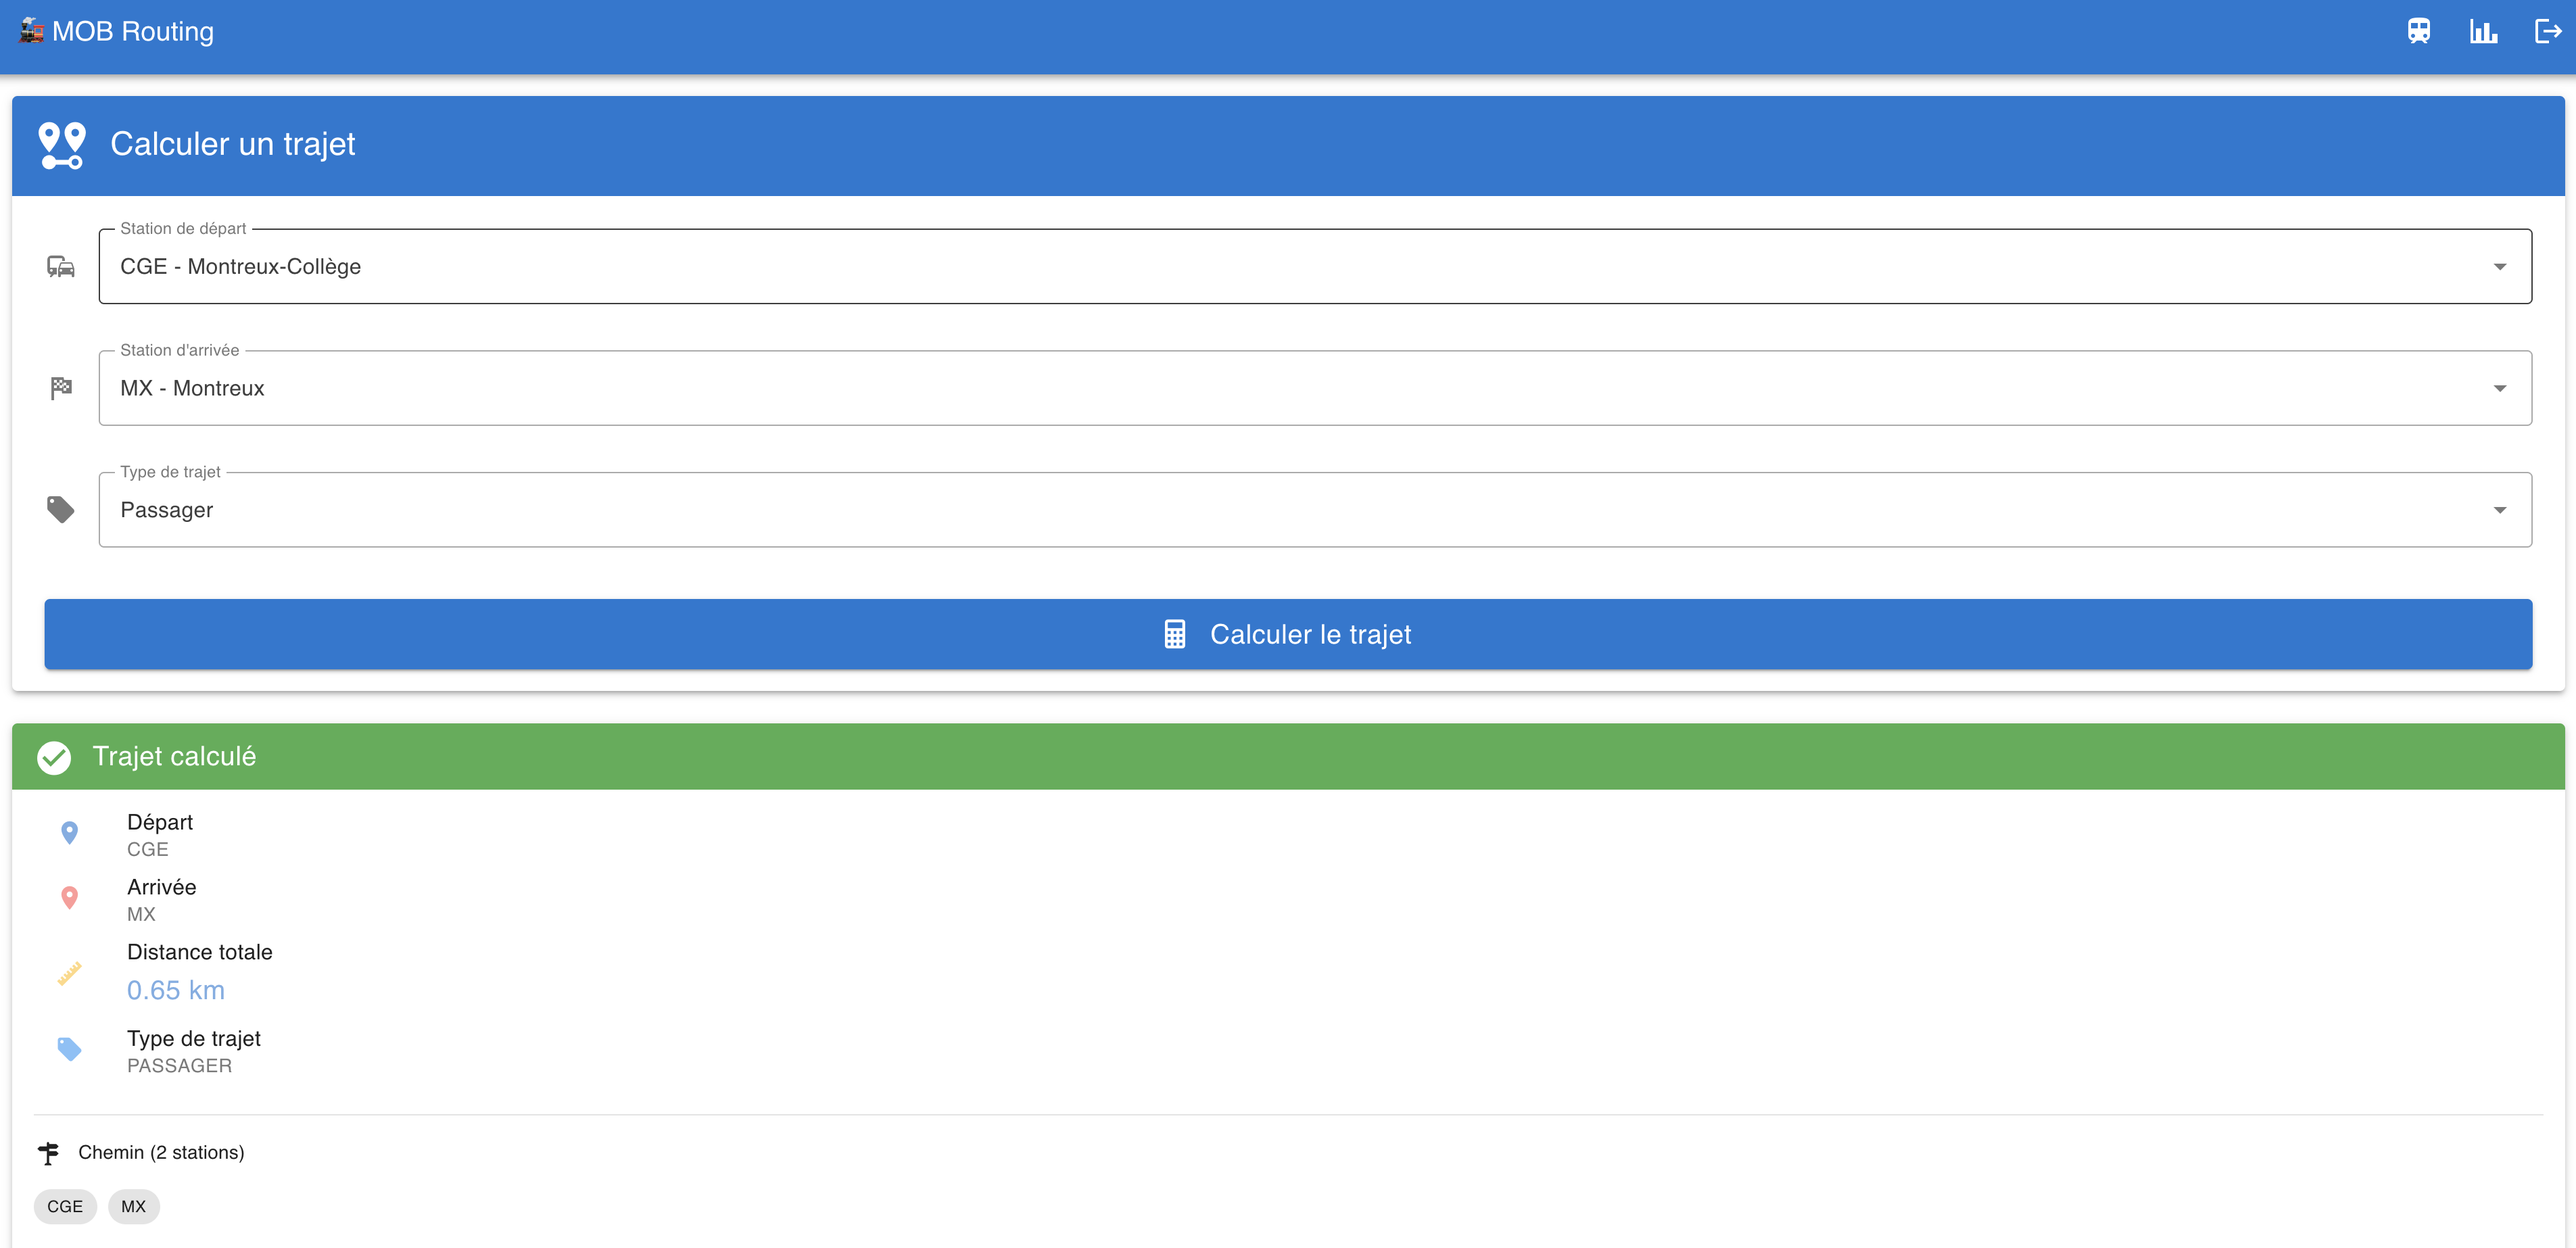
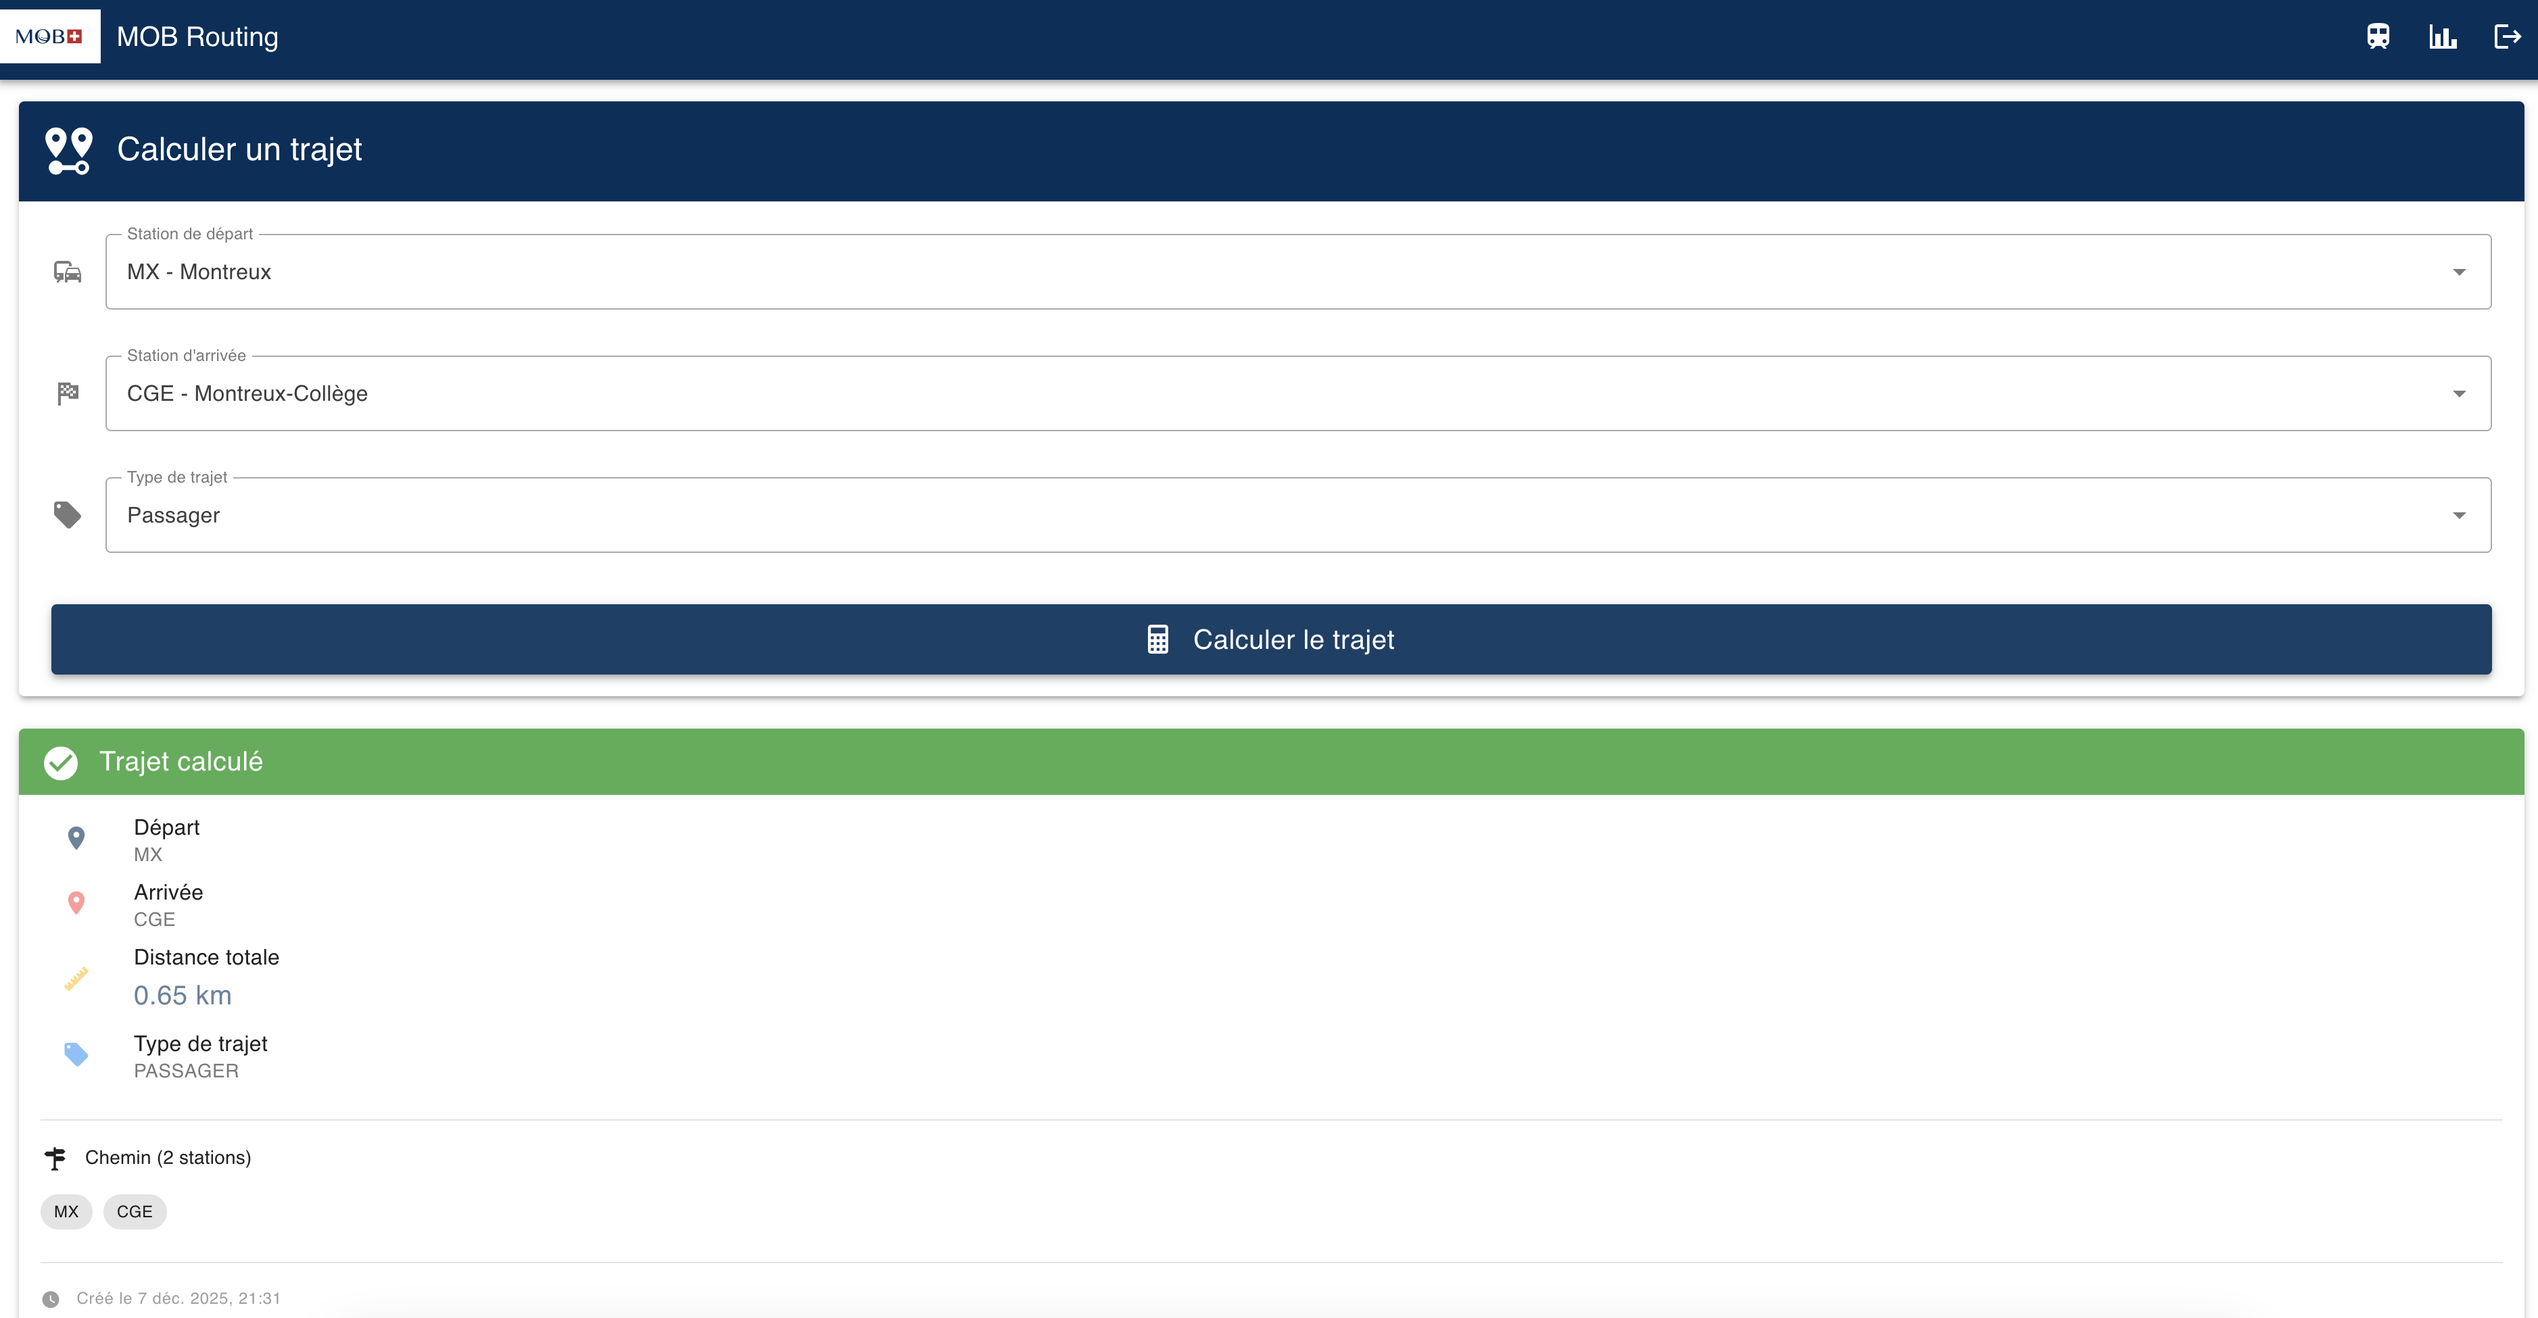
frontend: change color frontend to adapt to corporatewebsite

Changed region(s): [[0.0, 0.0, 1.0, 0.9881]]

diff --git a/mob-routing-frontend/src/plugins/vuetify.ts b/mob-routing-frontend/src/plugins/vuetify.ts
@@ -13,9 +13,9 @@ export default createVuetify({
         themes: {
             light: {
                 colors: {
-                    primary: '#1976D2',
-                    secondary: '#424242',
-                    accent: '#82B1FF',
+                    primary: '#002E5A',      // Bleu officiel MOB
+                    secondary: '#BF252B',     // Rouge officiel MOB (croix suisse)
+                    accent: '#003DA5',        // Bleu accent
                     error: '#FF5252',
                     info: '#2196F3',
                     success: '#4CAF50',
@@ -24,8 +24,8 @@ export default createVuetify({
             },
             dark: {
                 colors: {
-                    primary: '#2196F3',
-                    secondary: '#424242',
+                    primary: '#003DA5',       // Bleu plus clair pour le mode sombre
+                    secondary: '#BF252B',     // Rouge MOB
                 },
             },
         },

diff --git a/mob-routing-frontend/src/style.css b/mob-routing-frontend/src/style.css
@@ -15,11 +15,11 @@
 
 a {
   font-weight: 500;
-  color: #646cff;
+  color: #002E5A;  /* Bleu MOB */
   text-decoration: inherit;
 }
 a:hover {
-  color: #535bf2;
+  color: #003DA5;  /* Bleu MOB plus clair au survol */
 }
 
 body {
@@ -47,7 +47,7 @@ button {
   transition: border-color 0.25s;
 }
 button:hover {
-  border-color: #646cff;
+  border-color: #002E5A;  /* Bleu MOB */
 }
 button:focus,
 button:focus-visible {
@@ -71,7 +71,7 @@ button:focus-visible {
     background-color: #ffffff;
   }
   a:hover {
-    color: #747bff;
+    color: #003DA5;  /* Bleu MOB */
   }
   button {
     background-color: #f9f9f9;

diff --git a/mob-routing-frontend/src/App.vue b/mob-routing-frontend/src/App.vue
@@ -1,7 +1,15 @@
 <template>
   <v-app>
     <v-app-bar color="primary" dark app>
-      <v-toolbar-title>🚂 MOB Routing</v-toolbar-title>
+      <div class="d-flex align-center">
+        <img 
+          src="./assets/logo-mob.svg" 
+          alt="MOB Logo" 
+          height="40"
+          class="mr-3"
+        />
+        <v-toolbar-title>MOB Routing</v-toolbar-title>
+      </div>
 
       <v-spacer />
 
@@ -43,3 +51,9 @@ function navigateTo(path: string) {
   router.push(path);
 }
 </script>
+
+<style scoped>
+.mr-3 {
+  margin-right: 12px;
+}
+</style>

diff --git a/README.md b/README.md
@@ -159,7 +159,7 @@ docker compose run --rm frontend-test npm run test:coverage
 
 - **Backend** : 12 tests (PHPUnit) - unitaires et d'intégration
 - **Frontend** : 10 tests (~76% de couverture)
-- **Total** : 22 tests automatisés
+- **Tous les tests passent** dans le CI/CD
 
 ---
 
